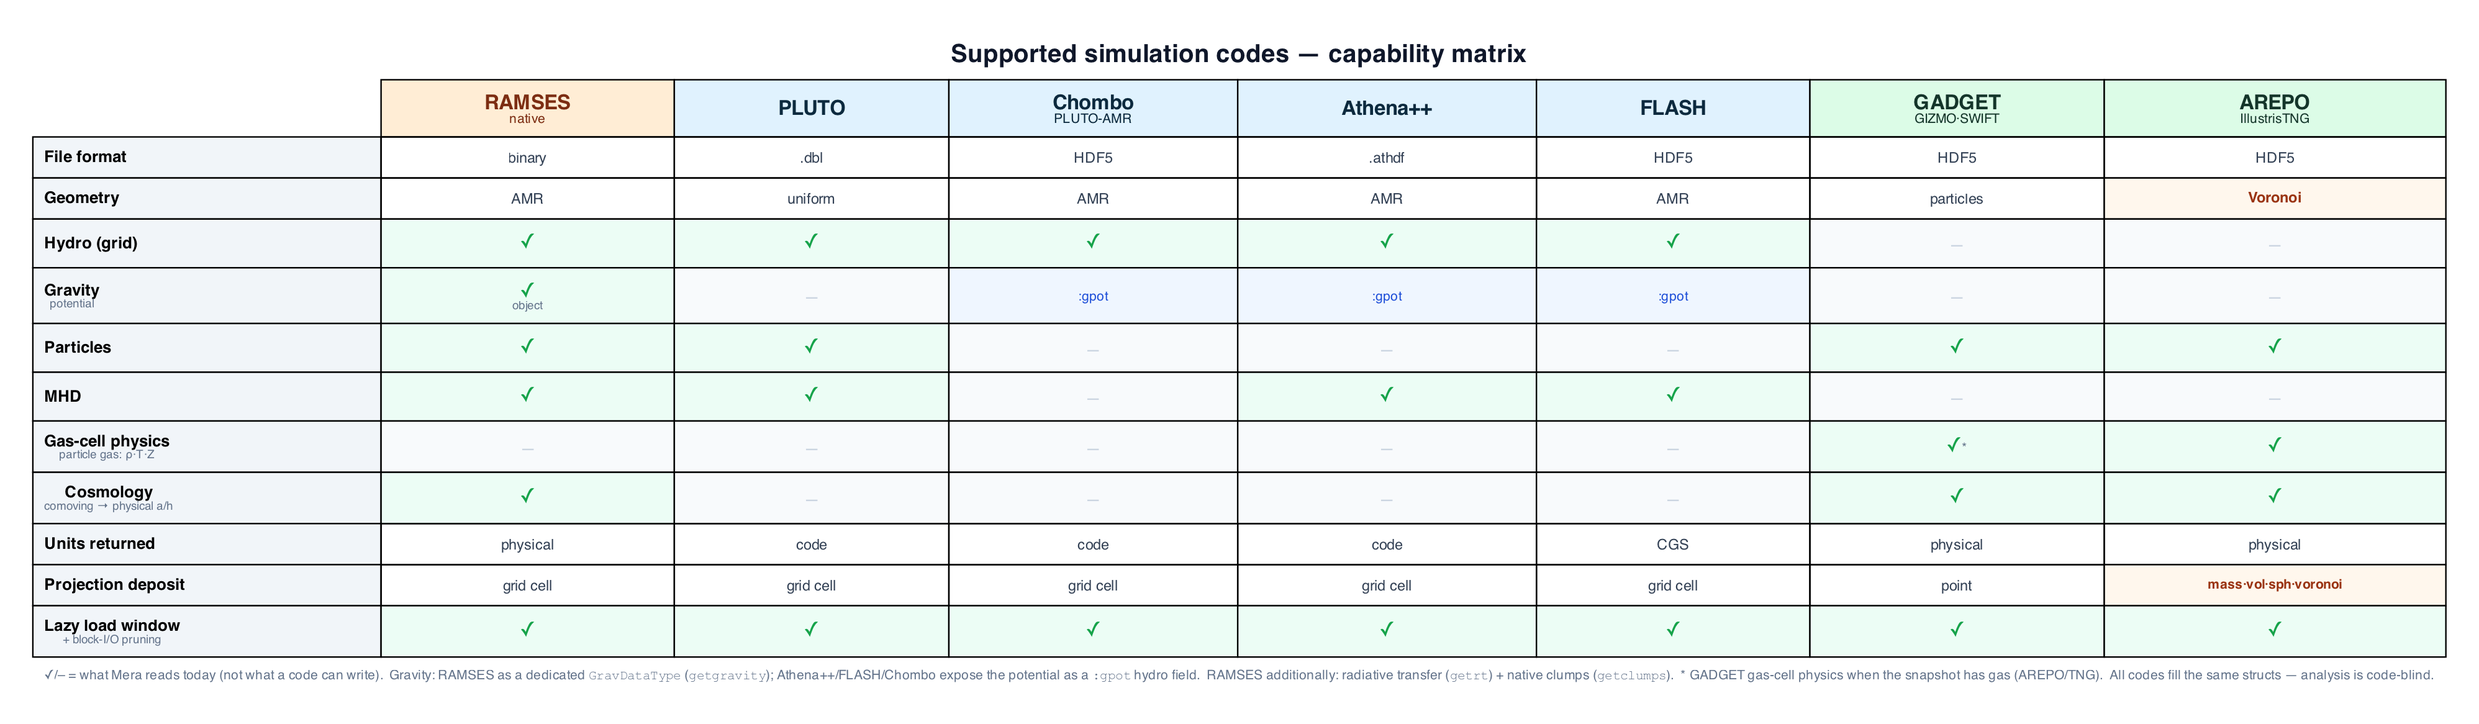
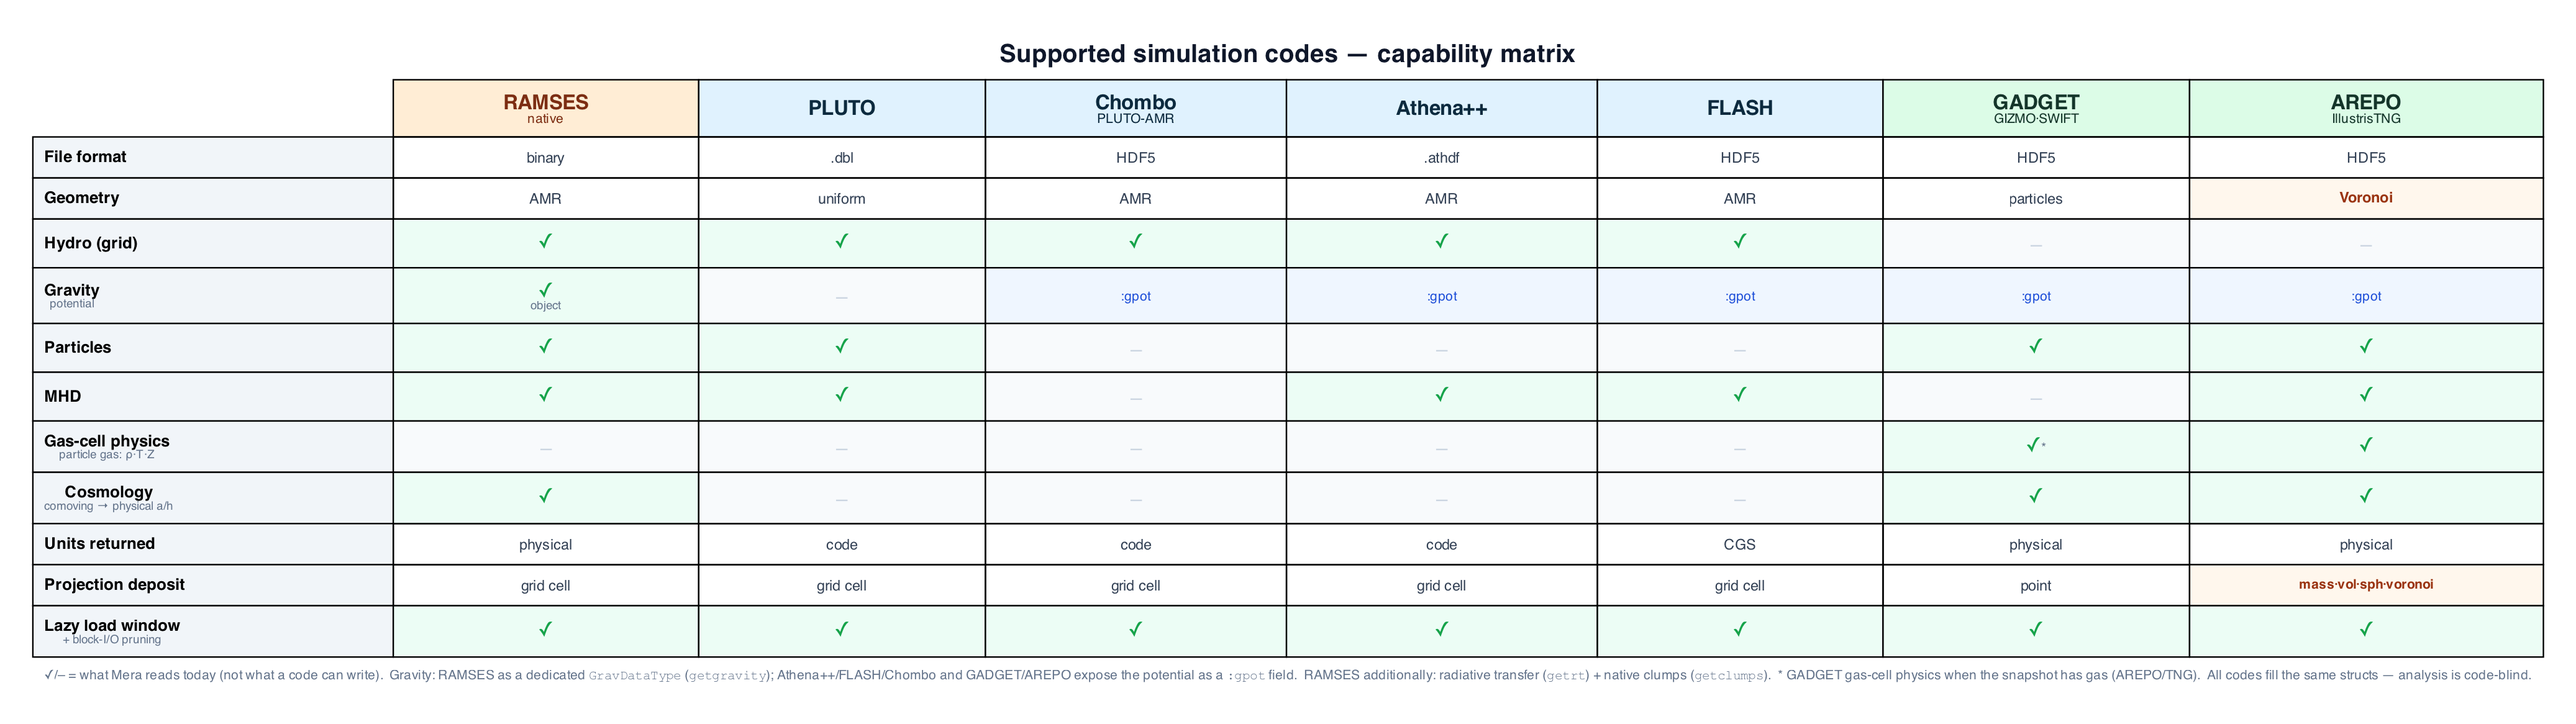
readers(GADGET/AREPO): MagneticField, Potential + bonus gas fields (#233)
Fills the reader gaps the capability audit surfaced (the data exists in the TNG
fixture, so it is read + tested):

- MagneticField (AREPO/TNG MHD) → :bx/:by/:bz. Stored as B_code/√(4π·a) so that
  getvar(:bx,:Gauss/:muG/:nG) returns the physical field via scale.Gauss
  (= √(4π·UnitPressure)·h·a⁻¹·⁵). Verified on TNG halo_59: gas |B|_code matches
  illustris_python to 4 sig-figs (median 0.138, max 202.8), dense-gas |B| ≈ 3.6 µG,
  peak 357 µG — textbook galactic field strengths.
- Potential → :gpot (peculiar, a⁻¹ comoving→physical); present on all AREPO types.
- NeutralHydrogenAbundance → :nh, Machnumber → :mach (dimensionless).
- Chombo/PLUTO-AMR: map bx1/bx2/bx3 → :bx/:by/:bz (UNTESTED — no MHD Chombo
  fixture yet; inert on the hydro+gravity fixture, test 52 still green).

No getvar changes needed: stored columns flow through the generic particle path,
and getunit resolves :Gauss/:muG by name. test/60 AREPO gas-fields 14→26 asserts.
Capability matrix updated: AREPO MHD ✓; GADGET/AREPO gravity → :gpot.

diff --git a/docs/src/gadget_reader.md b/docs/src/gadget_reader.md
@@ -23,8 +23,10 @@ unchanged.
     `PartType*` groups into a Mera [`PartDataType`](@ref) via [`getparticles`](@ref). For **gas**
     (`PartType0`, e.g. AREPO/TNG) the cell fields present in the file are read as columns —
     `Density→:rho`, `InternalEnergy→:u`, `ElectronAbundance→:ne`, `GFM_Metallicity→:metallicity`,
-    `StarFormationRate→:sfr` — and `:volume = mass/ρ` is derived; [`getvar`](@ref) adds `:T`, `:p`,
-    `:cs` (temperature from `:u`+`:ne`, with a neutral-primordial μ fallback when `:ne` is absent).
+    `StarFormationRate→:sfr`, `NeutralHydrogenAbundance→:nh`, `Machnumber→:mach`, the `MagneticField`
+    vector→`:bx,:by,:bz` (MHD, physical Gauss), `Potential→:gpot` — and `:volume = mass/ρ` is derived;
+    [`getvar`](@ref) adds `:T`, `:p`, `:cs` (temperature from `:u`+`:ne`, with a neutral-primordial μ
+    fallback when `:ne` is absent).
     Base CGS units are read from the snapshot `Header`, and for cosmological runs the
     comoving→physical `a`/`h` factors are applied automatically. 3-D.
 

diff --git a/docs/src/arepo_reader.md b/docs/src/arepo_reader.md
@@ -48,6 +48,10 @@ derived; [`getvar`](@ref) adds the thermodynamic quantities. All returned in **p
 | `ElectronAbundance` | `:ne` | sets the mean molecular weight μ |
 | `GFM_Metallicity` | `:metallicity` | metal mass fraction |
 | `StarFormationRate` | `:sfr` | M⊙/yr |
+| `MagneticField` | `:bx`, `:by`, `:bz` | MHD field; comoving→physical `a⁻²` and cgs→Gauss baked in — `getvar(:bx, :muG)` / `:Gauss` / `:nG` |
+| `Potential` | `:gpot` | gravitational potential (peculiar, `a⁻¹`); present on all particle types |
+| `NeutralHydrogenAbundance` | `:nh` | neutral-hydrogen fraction (dimensionless) |
+| `Machnumber` | `:mach` | cell Mach number (dimensionless) |
 | *(derived)* | `:T`, `:p`, `:cs` | `T = (γ-1)·u·μ·m_H/k_B`; μ from `:ne` (neutral-primordial fallback if absent) |
 
 ```julia
